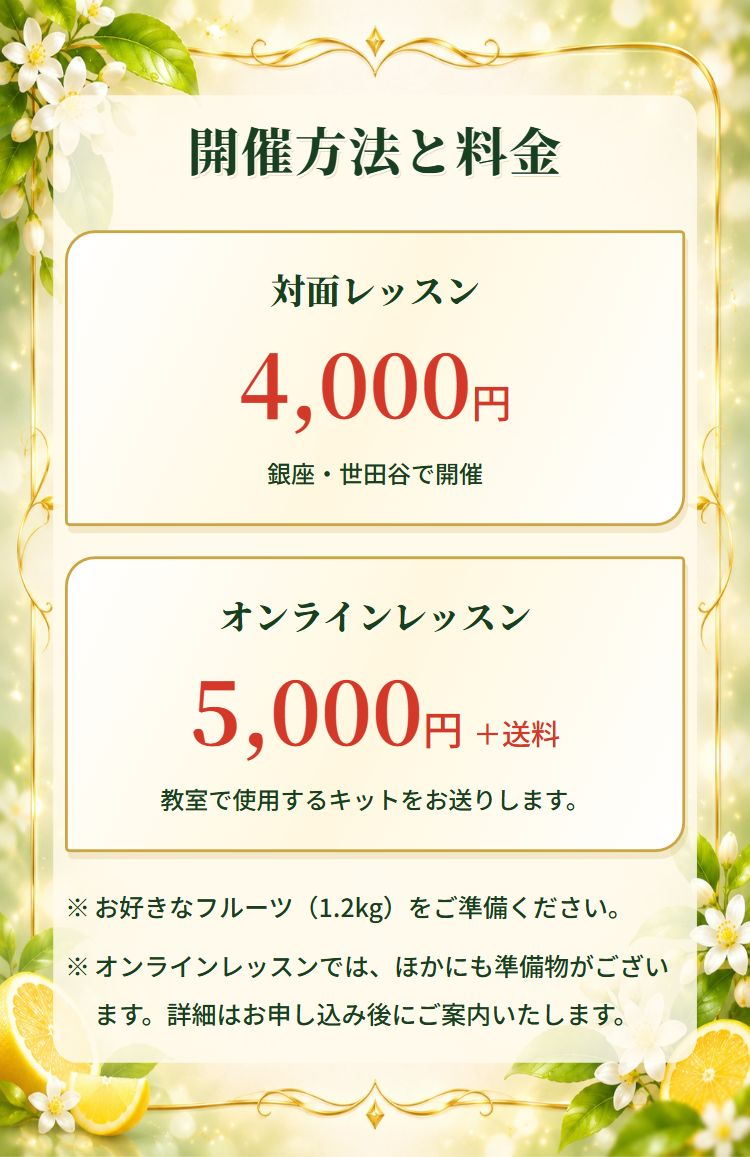
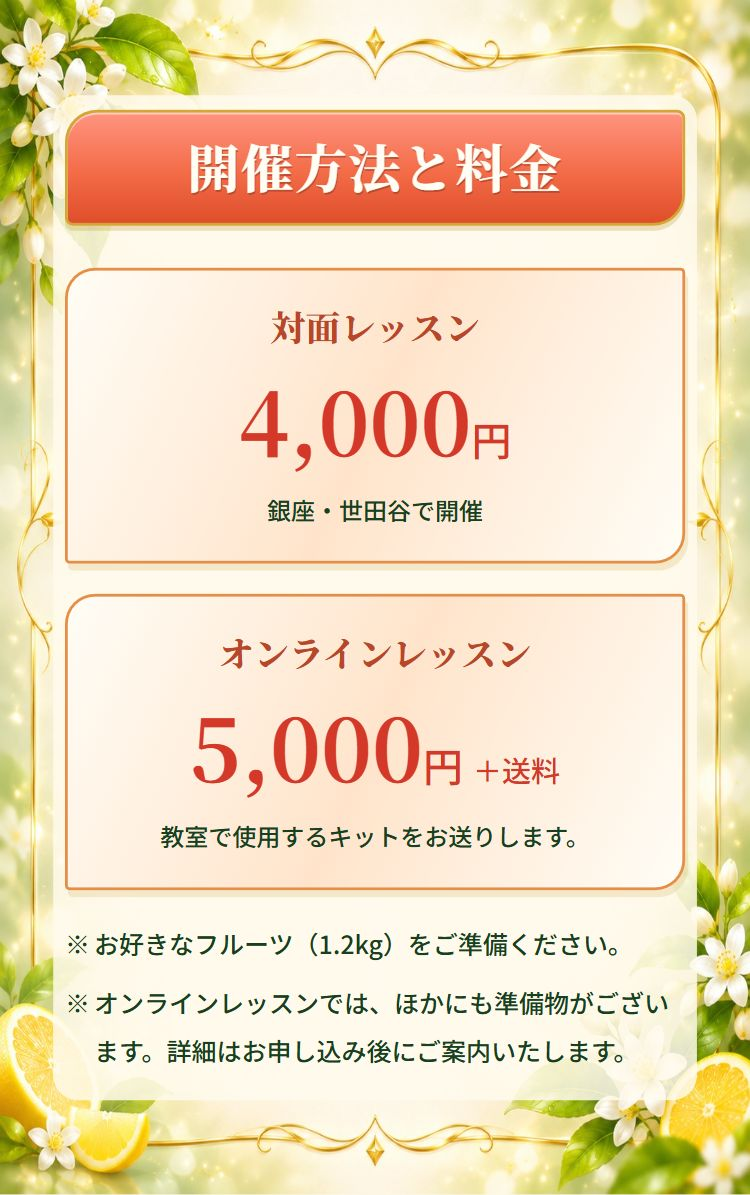
Add coral accents and dark green gains panel

diff --git a/image-lp/index.html b/image-lp/index.html
@@ -26,7 +26,7 @@
 <section class="image-section" id="benefit-3"><img src="images/benefit-3.jpg" width="750" height="562" alt="" loading="lazy"><div class="screen-reader-text"><div class="benefit-heading"><span class="benefit-number" aria-hidden="true">03</span><h3>体質改善から<br>運気UPへ！</h3></div>
 <p>人の身体は自然界にないものにとても弱く、化学物質はエネルギーや波動を下げてしまいます。ミネラル醗酵ドリンクで体質改善を促し、下がったエネルギーや波動を上げて運気UPにつなげます。</p></div></section>
 <section class="image-section" id="gains"><img src="images/gains.jpg" width="750" height="848" alt="" loading="lazy"><div class="screen-reader-text"><h3>教室に参加すると…</h3><ul><li>朝のファスティング用ドリンクに最適な一本が作れる</li><li>微量元素ミネラル30種以上のお水を使い、ミネラルの必要性が学べる</li><li>願いが叶う「言霊」の話も聞けて、運気も上昇</li></ul></div></section>
-<section class="image-section" id="lesson"><img src="images/lesson.jpg" width="750" height="1450" alt="" loading="lazy"><div class="screen-reader-text">
+<section class="image-section" id="lesson"><img src="images/lesson.jpg" width="750" height="1487" alt="" loading="lazy"><div class="screen-reader-text">
         <h2 >教室の内容</h2>
         <p class="section-lead">ミネラル醗酵ドリンクを、<br>ご自身の手で作るレッスンです。</p>
         <p>お茶の時間も含めて、約1時間半〜2時間。<br>教室で作ったドリンクは、お持ち帰りいただけます。</p>
@@ -53,13 +53,13 @@
 
         <div class="review-placeholder"><p>掲載するご感想を確認中です</p><span>こちらに、お客様のご感想を掲載します。</span></div>
       </div></section>
-<section class="image-section" id="pricing"><img src="images/pricing.jpg" width="750" height="1157" alt="" loading="lazy"><div class="screen-reader-text">
+<section class="image-section" id="pricing"><img src="images/pricing.jpg" width="750" height="1195" alt="" loading="lazy"><div class="screen-reader-text">
         <h2 >開催方法と料金</h2>
         <div class="price-card"><h3>対面レッスン</h3><p class="price"><strong>4,000</strong>円</p><p>銀座・世田谷で開催</p></div>
         <div class="price-card"><h3>オンラインレッスン</h3><p class="price"><strong>5,000</strong>円<span>＋送料</span></p><p>教室で使用するキットをお送りします。</p></div>
         <ul class="preparation"><li>お好きなフルーツ（1.2kg）をご準備ください。</li><li>オンラインレッスンでは、ほかにも準備物がございます。詳細はお申し込み後にご案内いたします。</li></ul>
         </div></section>
-<section class="image-section" id="flow"><img src="images/flow.jpg" width="750" height="710" alt="" loading="lazy"><div class="screen-reader-text"><h3 class="flow-heading">お申し込みの流れ</h3>
+<section class="image-section" id="flow"><img src="images/flow.jpg" width="750" height="748" alt="" loading="lazy"><div class="screen-reader-text"><h3 class="flow-heading">お申し込みの流れ</h3>
         <ol class="steps"><li><span aria-hidden="true">1</span><p>お申し込みフォームから送信</p></li><li><span aria-hidden="true">2</span><p>日程・準備物などの詳細をご案内</p></li><li><span aria-hidden="true">3</span><p>教室当日（対面またはオンライン）</p></li></ol>
         </div></section>
 <div class="section-action"><a class="apply-button" href="https://ssl.form-mailer.jp/fms/99c003f5839394">教室に申し込む<span aria-hidden="true">▶</span></a><p class="cta-note">日程・準備物などの詳細は、<br>お申し込み後にご案内します。</p></div>

diff --git a/image-lp/style.css b/image-lp/style.css
@@ -57,3 +57,7 @@ body::after { content: "SAMPLE"; position: fixed; top: 45%; left: 50%; transform
 @media (max-width:359px) { .section-action,.faq,.final-cta { padding-inline: 20px; } .price-pair { gap: 8px; } .price-pair span { font-size: 10px; } .apply-button { font-size: 20px; padding-inline: 28px; } }
 @media (min-width:600px) { .section-action,.faq,.final-cta { padding-inline: 48px; } .faq { padding-block: 65px; } .faq h2 { font-size: 36px; } summary,.answer { font-size: 17px; } .cta-note { font-size: 14px; } .price-pair span { font-size: 14px; } }
 @media print { .fixed-cta,.skip-link { display: none; } .footer { padding-bottom: 30px; } }
+.faq h2 { color: #c34e2d; text-shadow: 1px 2px #ffddb4; }
+.question-mark, summary::after { color: #c64e2d; }
+details[open] { border-color: #e68e52; background: #fff2e4; }
+.price-pair > div { border-color: #df9757; background: linear-gradient(115deg,#fffdf6,#ffe2c8); }
